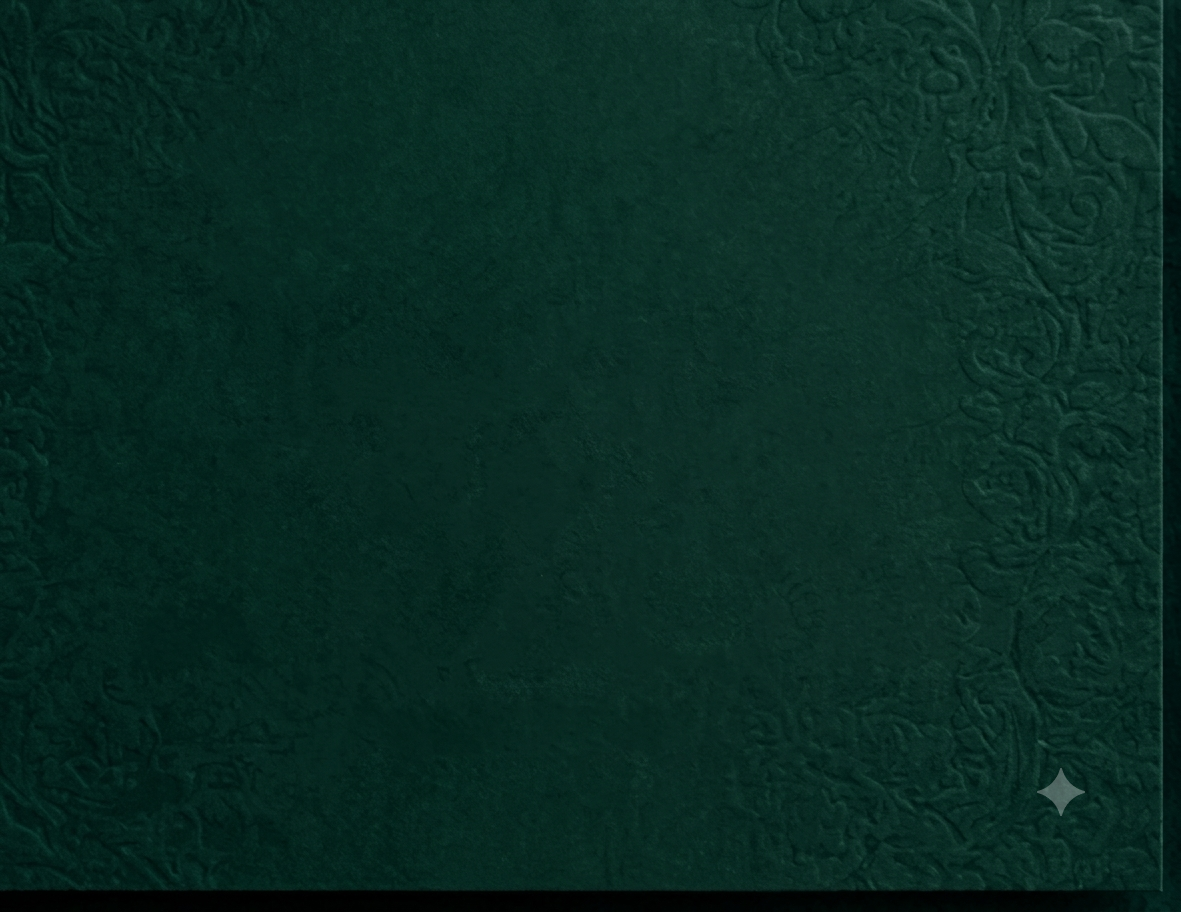
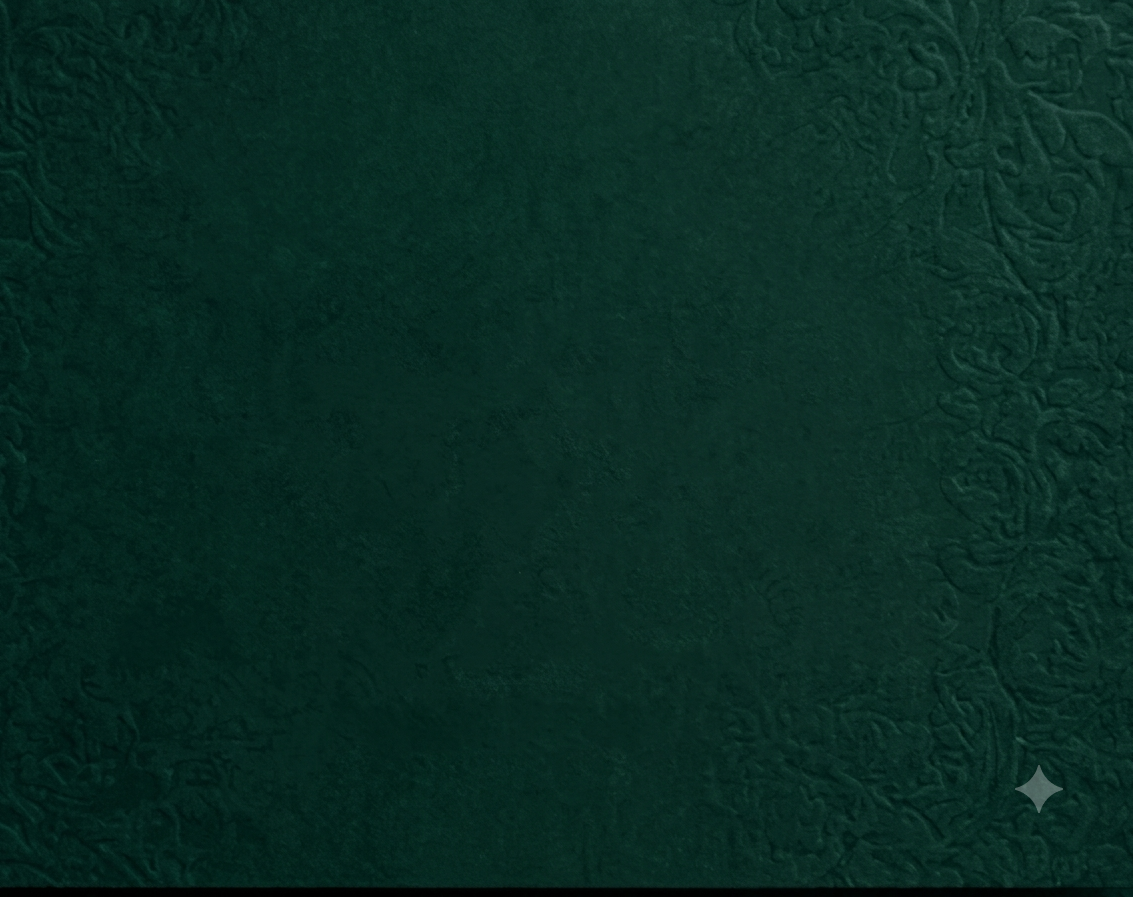
chnages

diff --git a/project/src/components/sections/ConsultationSection.tsx b/project/src/components/sections/ConsultationSection.tsx
@@ -327,9 +327,6 @@ async function createConsultationBooking() {
               Estimated material cost
             </p>
 
-            <p className="mt-1 font-serif text-2xl font-semibold leading-tight !text-black sm:text-3xl">
-              ₹55,000–₹60,000
-            </p>
           </div>
         </div>
 
@@ -579,21 +576,21 @@ async function createConsultationBooking() {
 
   
 {/* WHAT THE CLIENT RECEIVES */}
-<section className="deliverables-row mt-12 grid gap-8 rounded-[28px] border border-[#b18b50]/40 bg-gradient-to-br from-[#fffdf7] via-[#faf2df] to-[#f0e2c3] p-6 text-black shadow-[0_20px_55px_rgba(35,27,17,0.08)] sm:p-8 lg:grid-cols-[0.7fr_1.3fr] lg:items-center lg:p-10">
+<section className="deliverables-row mt-12 grid gap-8 rounded-[28px] border border-[#D4AF37] bg-gradient-to-br from-[#FFE9A3] via-[#E8BF52] to-[#C99722] p-6 !text-[#382507] shadow-[0_20px_55px_rgba(120,78,12,0.20)] sm:p-8 lg:grid-cols-[0.7fr_1.3fr] lg:items-center lg:p-10">
 
   {/* INTRODUCTION */}
   <div>
-    <span className="text-[10px] font-bold uppercase tracking-[0.23em] !text-black">
+    <span className="text-[10px] font-bold uppercase tracking-[0.23em] !text-[#65420D]">
       Your consultation documents
     </span>
 
-    <h2 className="mt-4 font-serif text-3xl font-semibold leading-tight !text-black sm:text-4xl">
+    <h2 className="mt-4 font-serif text-3xl font-semibold leading-tight !text-[#382507] sm:text-4xl">
       Clarity before you begin.
     </h2>
 
-    <p className="mt-4 max-w-sm text-sm leading-7 !text-black">
-      Clear, personalised documentation to help you understand your
-      consultation findings and recommendations.
+    <p className="mt-4 max-w-sm text-sm leading-7 !text-[#503711]">
+      Receive clear, personalised documents explaining your consultation
+      findings, recommended remedies and the plan for your property.
     </p>
   </div>
 
@@ -601,52 +598,54 @@ async function createConsultationBooking() {
   <div className="grid gap-4 sm:grid-cols-2">
 
     {/* WRITTEN FINDINGS */}
-    <div className="group flex gap-4 rounded-2xl border border-[#d8c18f] bg-gradient-to-br from-[#fffdf7] via-[#faf2df] to-[#f0e2c3] p-5 !text-black shadow-[0_10px_28px_rgba(120,87,35,0.08)] transition duration-300 hover:-translate-y-1 hover:border-[#b18b50] hover:shadow-[0_16px_35px_rgba(120,87,35,0.15)]">
+    <div className="group flex gap-4 rounded-2xl border border-[#B88620]/70 bg-gradient-to-br from-[#FFF4C9] via-[#F5D984] to-[#E5BC4D] p-5 !text-[#382507] shadow-[0_10px_28px_rgba(101,65,8,0.13)] transition duration-300 hover:-translate-y-1 hover:border-[#936410] hover:shadow-[0_16px_35px_rgba(101,65,8,0.23)]">
 
-      <div className="flex h-11 w-11 shrink-0 items-center justify-center rounded-xl border border-[#d9c08d] bg-[#efe0bd] !text-black">
-        <ShieldCheck size={20} strokeWidth={1.4} />
+      <div className="flex h-11 w-11 shrink-0 items-center justify-center rounded-xl border border-[#B88620]/70 bg-gradient-to-br from-[#E5BC4D] to-[#C28B19] !text-[#382507] shadow-sm">
+        <ShieldCheck size={20} strokeWidth={1.6} />
       </div>
 
       <div>
-        <h3 className="font-serif text-xl font-semibold !text-black">
-          Written findings
+        <h3 className="font-serif text-xl font-semibold !text-[#382507]">
+          Written Findings
         </h3>
 
-        <p className="mt-2 text-sm leading-6 !text-black">
-          Your written findings explain the personal plan and the
-          reason for each recommended remedy.
+        <p className="mt-2 text-sm leading-6 !text-[#503711]">
+          Understand your personalised plan, consultation findings
+          and the reasoning behind each recommended remedy.
         </p>
       </div>
     </div>
 
     {/* MATERIAL DOCUMENT */}
-    <div className="group flex gap-4 rounded-2xl border border-[#d8c18f] bg-gradient-to-br from-[#fffdf7] via-[#faf2df] to-[#f0e2c3] p-5 !text-black shadow-[0_10px_28px_rgba(120,87,35,0.08)] transition duration-300 hover:-translate-y-1 hover:border-[#b18b50] hover:shadow-[0_16px_35px_rgba(120,87,35,0.15)]">
+    <div className="group flex gap-4 rounded-2xl border border-[#B88620]/70 bg-gradient-to-br from-[#FFF4C9] via-[#F5D984] to-[#E5BC4D] p-5 !text-[#382507] shadow-[0_10px_28px_rgba(101,65,8,0.13)] transition duration-300 hover:-translate-y-1 hover:border-[#936410] hover:shadow-[0_16px_35px_rgba(101,65,8,0.23)]">
 
-      <div className="flex h-11 w-11 shrink-0 items-center justify-center rounded-xl border border-[#d9c08d] bg-[#efe0bd] !text-black">
-        <Layers3 size={20} strokeWidth={1.4} />
+      <div className="flex h-11 w-11 shrink-0 items-center justify-center rounded-xl border border-[#B88620]/70 bg-gradient-to-br from-[#E5BC4D] to-[#C28B19] !text-[#382507] shadow-sm">
+        <Layers3 size={20} strokeWidth={1.6} />
       </div>
 
       <div>
-        <h3 className="font-serif text-xl font-semibold !text-black">
-          Material document
+        <h3 className="font-serif text-xl font-semibold !text-[#382507]">
+          Material Document
         </h3>
 
-        <p className="mt-2 text-sm leading-6 !text-black">
-          A tailored material document identifies the materials
-          and placements recommended for your property.
+        <p className="mt-2 text-sm leading-6 !text-[#503711]">
+          A property-specific document outlining recommended materials,
+          their placements and how they fit into your Vastu plan.
         </p>
       </div>
     </div>
   </div>
 
   {/* MATERIAL DETAILS */}
-  <div className="rounded-xl border border-[#d8c18f] bg-gradient-to-r from-[#f8f0df] to-[#efe0bd] p-4 !text-black lg:col-start-2">
-    <p className="text-sm leading-7 !text-black">
-      Selections may include metal studs and strips, devta items,
-      precious stone dust as per your astrological chart,
-      flooring-specific remedies, idols and room-appropriate frames.
+  <div className="rounded-xl border border-[#B88620]/70 bg-gradient-to-r from-[#F9E6A6] to-[#E9C45C] p-4 !text-[#382507] shadow-[0_8px_22px_rgba(101,65,8,0.10)] lg:col-start-2">
+    <p className="text-sm font-medium leading-7 !text-[#503711]">
+      Recommended materials may include metal studs and strips,
+      devta items, precious stone dust selected according to your
+      astrological chart, flooring-specific remedies, idols and
+      room-appropriate frames, depending on your individual plan.
     </p>
   </div>
+
 </section>
 
 {/* FAQ */}

diff --git a/project/src/components/sections/PackagesSection.tsx b/project/src/components/sections/PackagesSection.tsx
@@ -80,13 +80,13 @@ export default function PackagesSection() {
 
   <div className="mx-auto grid max-w-4xl gap-5 md:grid-cols-2">
     {/* Regular consultation */}
-    <div className="relative overflow-hidden rounded-3xl border border-[#dfd2b9] bg-white p-6 shadow-[0_12px_35px_rgba(91,61,30,0.08)] transition duration-300 hover:-translate-y-1 hover:shadow-[0_20px_45px_rgba(91,61,30,0.14)] sm:p-8">
-      <div className="absolute right-0 top-0 h-28 w-28 rounded-bl-full bg-[#f8f1e4]" />
+     <div className="relative overflow-hidden rounded-3xl border border-[#b8860b] bg-gradient-to-br from-[#ffe9a3] via-[#e9bd4d] to-[#c58a16] p-6 shadow-[0_16px_40px_rgba(145,94,15,0.24)] transition duration-300 hover:-translate-y-1 hover:shadow-[0_24px_50px_rgba(145,94,15,0.32)] sm:p-8">
+  <div className="absolute -right-8 -top-8 h-36 w-36 rounded-full bg-[#fff8dc]/50 blur-2xl" />
 
-      <div className="relative">
-        <span className="inline-flex rounded-full border border-[#dfcba5] bg-[#faf5ea] px-3 py-1 text-xs font-bold uppercase tracking-wider text-[#8a6937]">
-          Regular Visit
-        </span>
+  <div className="relative">
+    <span className="inline-flex rounded-full border border-[#80520f]/40 bg-[#fff2c2]/60 px-3 py-1 text-xs font-bold uppercase tracking-wider text-[#4a2d08]">
+     Regular Visit
+    </span>
 
         <h4 className="mt-5 font-serif text-2xl font-bold text-[#805b2e]">
           Vastu Consultation
@@ -108,13 +108,13 @@ export default function PackagesSection() {
     </div>
 
     {/* Horoscope-based selection */}
-    <div className="relative overflow-hidden rounded-3xl border border-[#b18b50]/70 bg-gradient-to-br from-[#fffaf0] via-[#f4e5c6] to-[#e5cd9d] p-6 shadow-[0_16px_40px_rgba(91,61,30,0.13)] transition duration-300 hover:-translate-y-1 hover:shadow-[0_24px_50px_rgba(91,61,30,0.19)] sm:p-8">
-      <div className="absolute -right-8 -top-8 h-36 w-36 rounded-full bg-white/40 blur-2xl" />
+   <div className="relative overflow-hidden rounded-3xl border border-[#b8860b] bg-gradient-to-br from-[#ffe9a3] via-[#e9bd4d] to-[#c58a16] p-6 shadow-[0_16px_40px_rgba(145,94,15,0.24)] transition duration-300 hover:-translate-y-1 hover:shadow-[0_24px_50px_rgba(145,94,15,0.32)] sm:p-8">
+  <div className="absolute -right-8 -top-8 h-36 w-36 rounded-full bg-[#fff8dc]/50 blur-2xl" />
 
-      <div className="relative">
-        <span className="inline-flex rounded-full border border-[#b18b50]/50 bg-white/60 px-3 py-1 text-xs font-bold uppercase tracking-wider text-[#805b2e]">
-          Personalised Selection
-        </span>
+  <div className="relative">
+    <span className="inline-flex rounded-full border border-[#80520f]/40 bg-[#fff2c2]/60 px-3 py-1 text-xs font-bold uppercase tracking-wider text-[#4a2d08]">
+      Personalised Selection
+    </span>
 
         <h4 className="mt-5 font-serif text-2xl font-bold text-[#805b2e]">
           Property Selection as per Horoscope
@@ -142,18 +142,18 @@ export default function PackagesSection() {
         <li
           key={pkg.id}
           className="
-            group relative flex flex-col overflow-hidden
-            rounded-2xl
-            border border-[#b18b50]/45
-            bg-gradient-to-br from-[#f8e8c5] via-[#ead5a8] to-[#d6b779]
-            p-6
-            !text-black
-            shadow-[0_15px_40px_rgba(91,61,30,0.12)]
-            transition-all duration-300
-            hover:-translate-y-1
-            hover:border-[#a98249]
-            hover:shadow-[0_22px_50px_rgba(91,61,30,0.20)]
-          "
+  group relative flex flex-col overflow-hidden
+  rounded-2xl
+  border border-[#c18b28]/70
+  bg-gradient-to-br from-[#fff0b3] via-[#edc45c] to-[#c58a16]
+  p-6
+  !text-black
+  shadow-[0_15px_40px_rgba(145,94,15,0.22)]
+  transition-all duration-300
+  hover:-translate-y-1
+  hover:border-[#9f6b12]
+  hover:shadow-[0_22px_50px_rgba(145,94,15,0.32)]
+"
         >
           {/* Subtle golden glow */}
           <div

diff --git a/project/src/components/Navbar.tsx b/project/src/components/Navbar.tsx
@@ -69,11 +69,15 @@ export default function Navbar() {
   className="group relative z-50 flex shrink-0 items-center"
   aria-label="Home"
 >
-  <div className="flex h-[62px] w-[62px] items-center justify-center overflow-hidden rounded-full border-2 border-[#B58A30] bg-[#F8EBCB] shadow-[0_3px_12px_rgba(112,78,24,0.15)] transition-all duration-300 group-hover:scale-105 group-hover:border-[#91651E] sm:h-[72px] sm:w-[72px]">
+  <div className="relative mx-auto w-full max-w-[190px] overflow-hidden rounded-2xl border-2 border-[#B58A30] bg-[#F8EBCB] p-1 shadow-[0_3px_12px_rgba(112,78,24,0.15)] transition-all duration-300">
     <img
       src="/logoo.png"
-      alt="Acharya Sunil Mahatma logo"
-      className="h-full w-full rounded-full object-cover p-1"
+      alt="Acharya Sunil Mahatma Astro Vastu Expert"
+      className="block h-auto w-full object-contain"
+      style={{
+        objectFit: "contain",
+        objectPosition: "center",
+      }}
     />
   </div>
 </a>

diff --git a/project/src/index.css b/project/src/index.css
@@ -2793,7 +2793,7 @@ select:focus {
   overflow: hidden;
   border: 1px solid rgba(12, 11, 8, 0.38);
   border-radius: 28px;
-  background: #F8F4EA;
+  background: #efac03;
   box-shadow: 0 30px 90px rgba(41, 37, 31, 0.09);
 }
 
@@ -3254,8 +3254,8 @@ select:focus {
   overflow: hidden;
   border: 0;
   border-right: 1px solid #D9CDB7;
-  background: transparent;
-  color: #817969;
+  background:transparent;
+  color: #ef3e08;
   text-align: left;
   cursor: pointer;
   transition:
@@ -3300,7 +3300,7 @@ select:focus {
   font-size: 10px;
   font-weight: 700;
   letter-spacing: 0.15em;
-  color: var(--layer-accent, #A98545);
+  color: var(--layer-accent, #150e02);
 }
 
 .layer-selector-icon {
@@ -3311,7 +3311,7 @@ select:focus {
   justify-content: center;
   border: 1px solid #D9CDB7;
   border-radius: 50%;
-  background: rgba(255, 252, 245, 0.65);
+  background: rgba(255, 251, 245, 0.65);
   color: var(--layer-accent, #A98545);
   transition:
     transform 400ms ease,

diff --git a/project/src/components/sections/SevenLayersSection.tsx b/project/src/components/sections/SevenLayersSection.tsx
@@ -369,7 +369,7 @@ export default function SevenLayersSection() {
       `Property details: ${formData.details || 'Not provided'}`,
       '',
       'Consultation: 7-Layer Astro Vastu — ₹75,000',
-      'Estimated materials: ₹55,000–₹60,000, charged separately.',
+      
     ].join('\n');
 
     setFormMessage(message);
